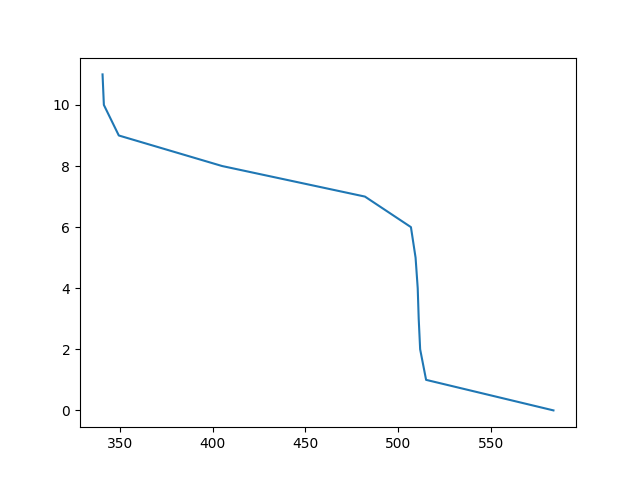
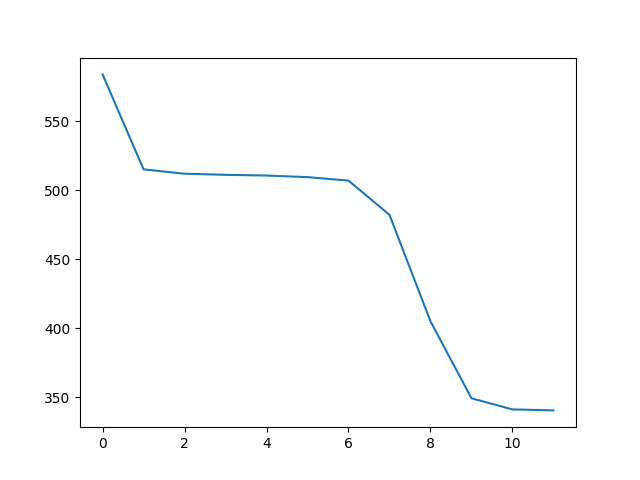
minor improvement to plot

diff --git a/kmeans++/kmeans+.py b/kmeans++/kmeans+.py
@@ -40,5 +40,5 @@ mse = [
 ]
 
 plt.figure()
-plt.plot(mse, range(0,12))
+plt.plot(range(0,12),mse)
 plt.savefig("MSE.png")
